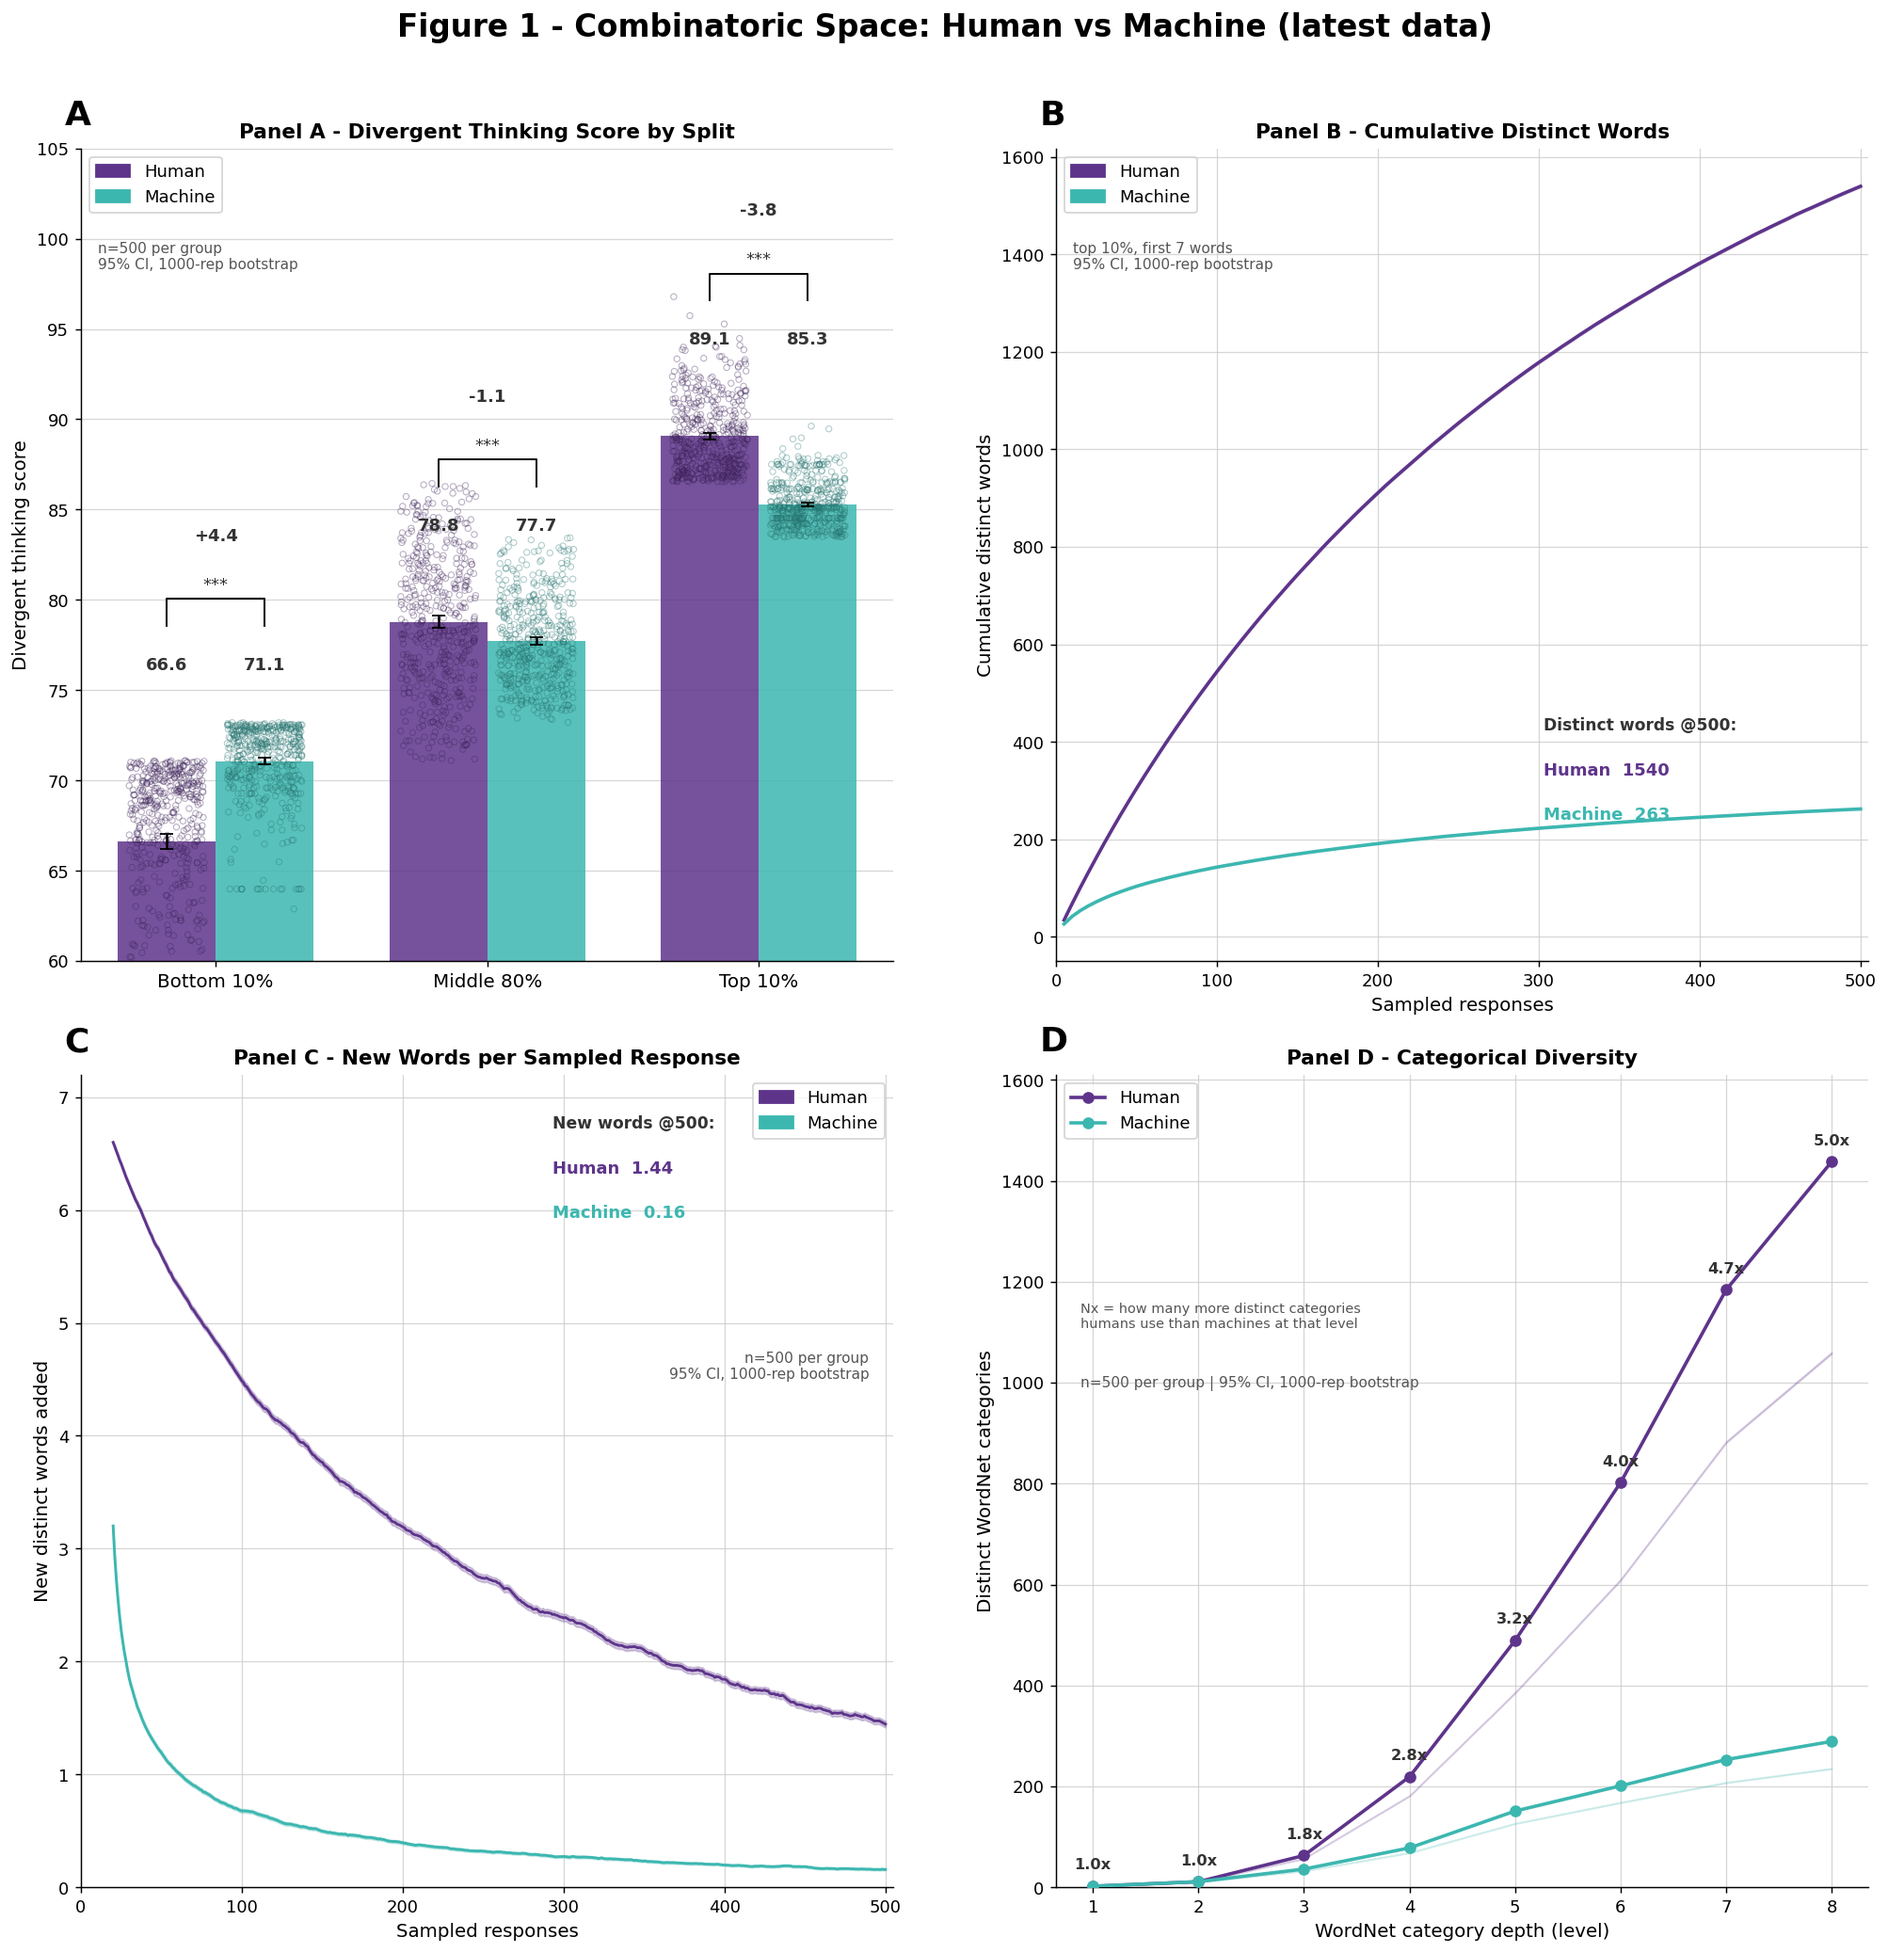
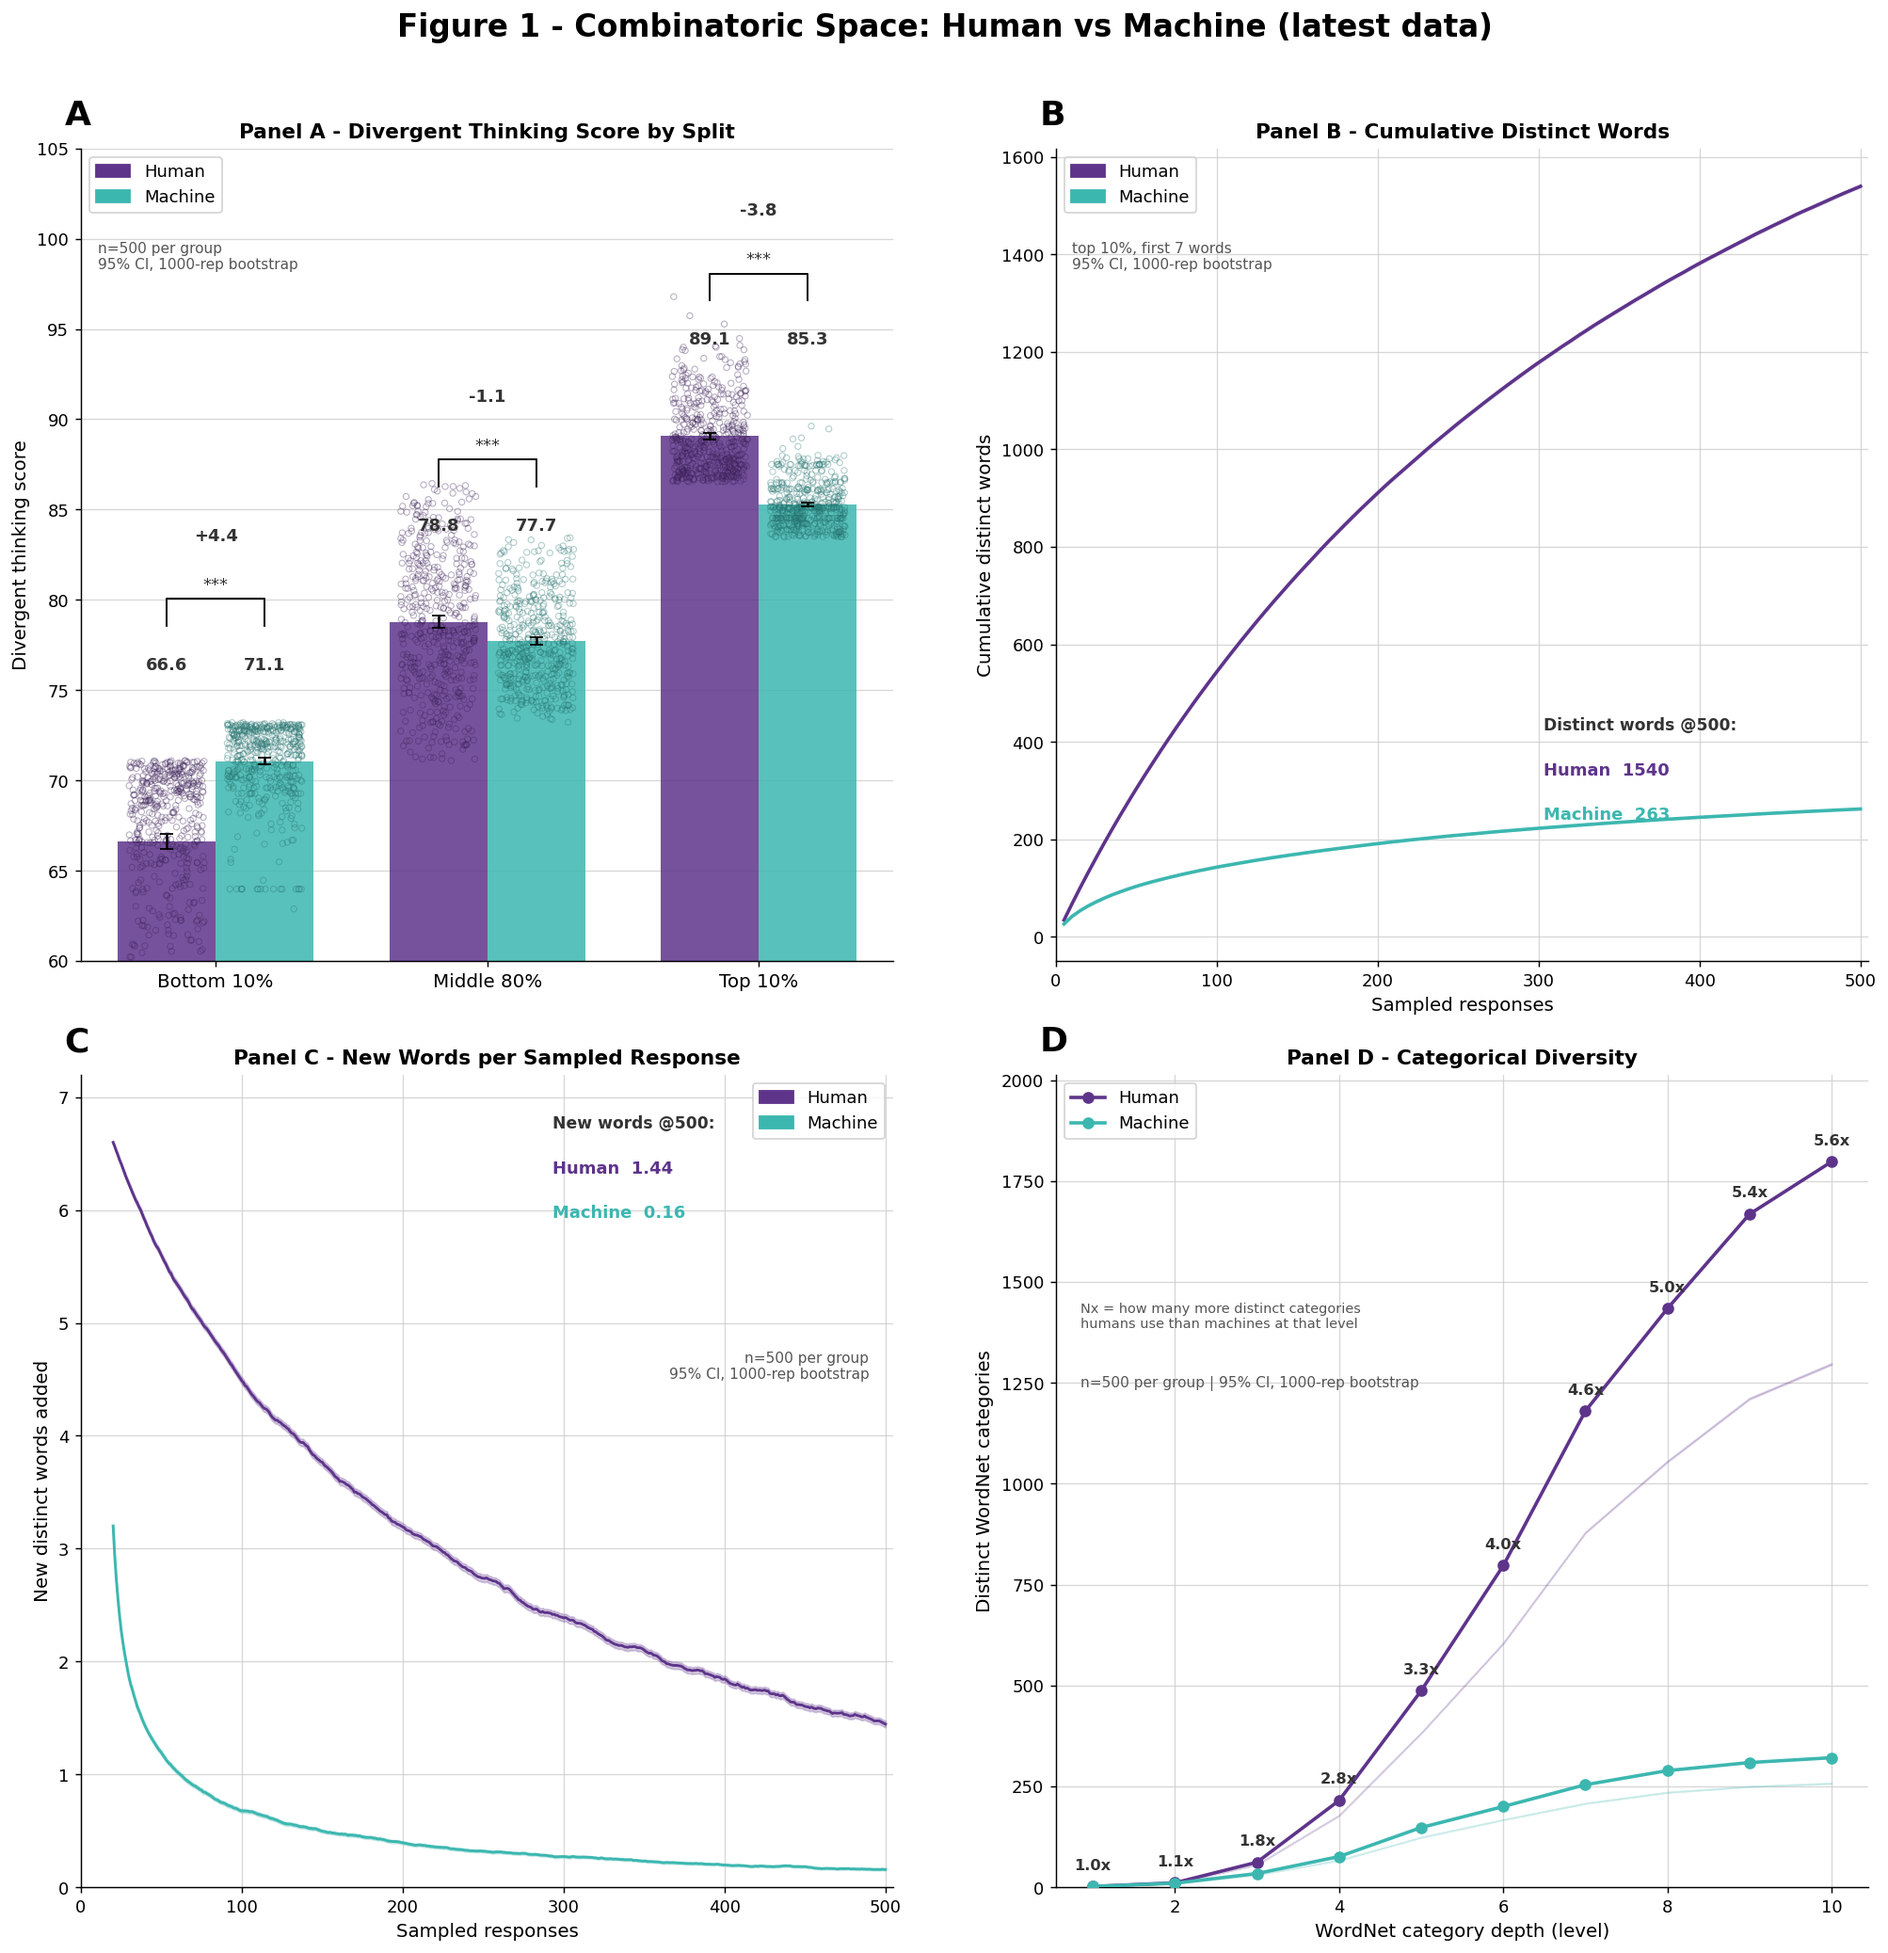
Study 1 - Space: extend Panel D WordNet depth to level 10 (ratio 5.6x)

diff --git a/analysis/study 1 - space figure1.py b/analysis/study 1 - space figure1.py
@@ -164,7 +164,7 @@ def draw_C(ax):
 
 # ---------- Panel D ----------
 def draw_D(ax):
-    LEVELS=list(range(1,9))
+    LEVELS=list(range(1,11))
     def cats_at(words,level):
         cats=set()
         for w in words:
